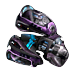
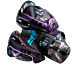
#62 updated images

diff --git a/client-module/src/render/render.js b/client-module/src/render/render.js
@@ -180,7 +180,7 @@ export function createInventory() {
     app.stage.addChild(container);
     container.visible = false;
 
-    let inventory = pixi.Sprite.from("./images/inventory_empty.png");
+    let inventory = pixi.Sprite.from("./images/inventory_empty_center.png");
     inventory.position.set(container.width / 2, container.height / 2)
     container.addChild(inventory);
     inventory.width = 436;

diff --git a/client-module/src/obj/CargoCell.js b/client-module/src/obj/CargoCell.js
@@ -38,12 +38,6 @@ export class CargoCell {
         return removedCargo;
     }
 
-    swapCargo(newCell) {
-        let newItem = newCell.getItem();
-        newCell.add(this.#cargo);
-        this.add(newItem);
-    }
-
     center() {
         render.addToCargoCell(this.#cargo.texture, this.texture);
     }

diff --git a/client-module/src/const/EquipmentSlotId.js b/client-module/src/const/EquipmentSlotId.js
@@ -3,5 +3,6 @@ export const EquipmentSlotId = {
     FuelTank: 2,
     Scanner: 3,
     Radar: 4,
-    CargoHook: 6
+    CargoHook: 6,
+    Hull: 8
 }

diff --git a/client-module/src/cfg/images-cfg.js b/client-module/src/cfg/images-cfg.js
@@ -2,3 +2,4 @@ export const shipsCfgMap = new Map();
 
 shipsCfgMap.set(1, 99);
 shipsCfgMap.set(2, 148);
+shipsCfgMap.set(3, 99);
